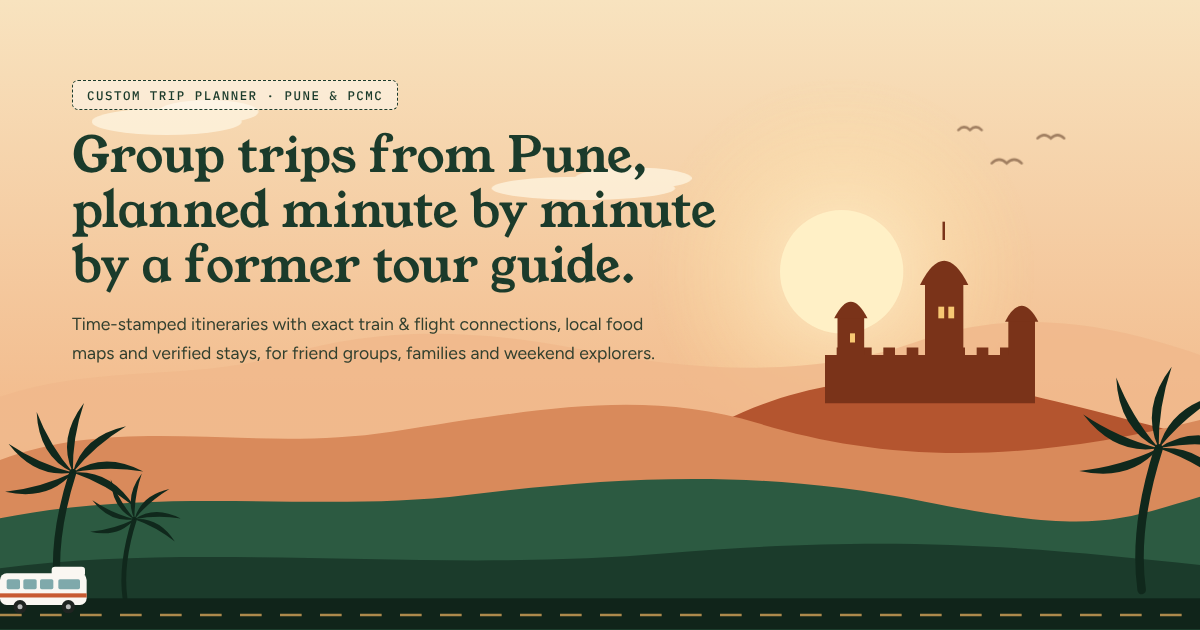
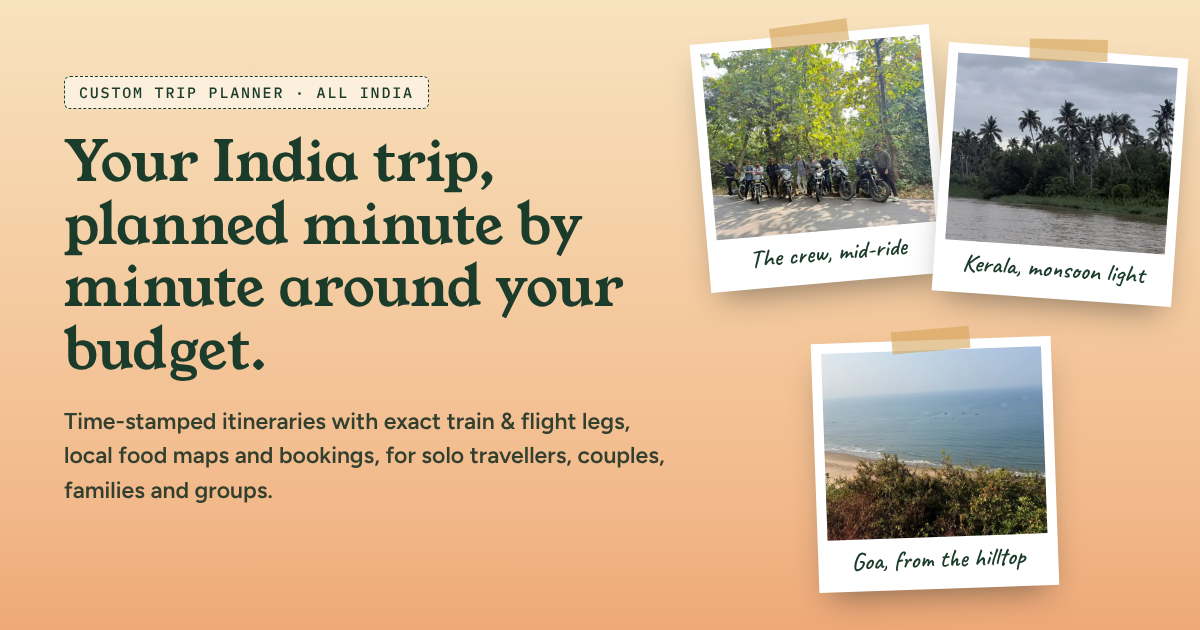
Finish pass: link-preview image regenerated (old one claimed 'former tour guide' and 'verified stays'), remove 'rough estimate' and 'weekend batches' wording
Claude-Session: https://claude.ai/code/session_01EqhCV4XYafM6KkVYf71ccm

diff --git a/travel-site/tools/og.html b/travel-site/tools/og.html
@@ -1,0 +1,22 @@
+<!doctype html><meta charset="utf-8"><title>og</title>
+<style>
+@font-face{font-family:'Young Serif';src:url(../fonts/young-serif-latin.woff2) format('woff2')}
+@font-face{font-family:'Figtree';font-weight:600;src:url(../fonts/figtree-latin.woff2) format('woff2')}
+@font-face{font-family:'Caveat';font-weight:600;src:url(../fonts/caveat-latin.woff2) format('woff2')}
+@font-face{font-family:'IBM Plex Mono';font-weight:500;src:url(../fonts/ibm-plex-mono-latin.woff2) format('woff2')}
+*{box-sizing:border-box;margin:0}
+body{width:1200px;height:630px;overflow:hidden;position:relative;background:linear-gradient(#F8E3BF,#F2B98A 80%,#EFA877);font-family:'Figtree',sans-serif;color:#1B3B2B}
+.t{position:absolute;left:64px;top:76px;width:620px}
+.s{display:inline-block;font:500 15px 'IBM Plex Mono',monospace;letter-spacing:.12em;text-transform:uppercase;border:1.5px dashed #1B3B2B;padding:6px 14px;border-radius:6px;background:rgba(255,252,246,.6)}
+h1{font:400 56px/1.12 'Young Serif',Georgia,serif;margin:22px 0 22px}
+p{font-size:23px;line-height:1.5;color:#33402f}
+.f{position:absolute;margin:0;background:#fff;padding:10px 10px 14px;box-shadow:0 16px 32px -12px rgba(31,36,33,.5);width:240px}
+.f img{display:block;width:100%;aspect-ratio:1/.85;object-fit:cover}
+.f figcaption{font:600 25px 'Caveat',cursive;text-align:center;margin-top:6px}
+.f::before{content:"";position:absolute;top:-11px;left:50%;width:78px;height:22px;margin-left:-39px;background:rgba(212,163,89,.6);transform:rotate(-3deg)}
+.a{left:700px;top:34px;transform:rotate(-5deg)}.b{left:940px;top:50px;transform:rotate(4deg)}.c{left:815px;top:340px;transform:rotate(-2deg)}
+</style>
+<div class="t"><span class="s">Custom trip planner · All India</span><h1>Your India trip, planned minute by minute around your budget.</h1><p>Time-stamped itineraries with exact train &amp; flight legs, local food maps and bookings, for solo travellers, couples, families and groups.</p></div>
+<figure class="f a"><img src="../img/trip-crew-560.webp" alt=""><figcaption>The crew, mid-ride</figcaption></figure>
+<figure class="f b"><img src="../img/trip-kerala-800.webp" alt=""><figcaption>Kerala, monsoon light</figcaption></figure>
+<figure class="f c"><img src="../img/trip-goa-800.webp" alt=""><figcaption>Goa, from the hilltop</figcaption></figure>

diff --git a/travel-site/tests/e2e.js b/travel-site/tests/e2e.js
@@ -255,7 +255,7 @@ const toPlanner = p => p.evaluate(() => document.querySelector('#planner').scrol
     assert(!fs.existsSync(path.join(root, 'fares.json')), 'the flight-fare data went with the prices');
     const home = fs.readFileSync(path.join(root, 'index.html'), 'utf8');
     assert(!/<h1[^>]*>[^<]*Pune|Pune &amp; PCMC|<title>[^<]*Pune|group trip planner in Pune/i.test(home) && /<h1[^>]*>[^<]*India/.test(home) && /solo travellers, couples, families/i.test(home), 'home page positioning is India-wide for every kind of traveller, not Pune-only or group-only');
-    assert(!/former tour guide|run them end to end|we have run group trips|started out as a|years running|holding the flag|vetted local|verified local|100% ground-tested|hidden agency markups|500\+|80K\+|trusted by|travellers planned for|signature routes, walked/i.test(home), 'no claim we cannot back up yet');
+    assert(!/former tour guide|run them end to end|we have run group trips|rough estimate|weekend batches|verified stays|started out as a|years running|holding the flag|vetted local|verified local|100% ground-tested|hidden agency markups|500\+|80K\+|trusted by|travellers planned for|signature routes, walked/i.test(home), 'no claim we cannot back up yet');
     assert.deepEqual([...home.matchAll(/class="linkbtn" data-bp="([\w-]+)"/g)].map(m => m[1]), ['rajasthan', 'kerala'], 'a blueprint is offered only where a real plan exists');
     assert.equal((home.match(/class="postmark"/g) || []).length, 2); assert.equal((home.match(/<b>Ground-tested<\/b>/g) || []).length, 2, 'only Rajasthan and Kerala are labelled ground-tested'); }
   // ---- legal pages: present, linked from every page, honest about what the code does ----

diff --git a/travel-site/index.html b/travel-site/index.html
@@ -644,9 +644,9 @@ dialog::backdrop{background:rgba(10,20,15,.68)}
     </div>
     <div class="tabs" role="tablist" aria-label="Filter trips">
       <button class="tab" role="tab" aria-selected="true" data-f="all">All Trips</button>
-      <button class="tab" role="tab" aria-selected="false" data-f="weekend">Weekend Batches (From Pune)</button>
-      <button class="tab" role="tab" aria-selected="false" data-f="multi">Multi-City Classics</button>
-      <button class="tab" role="tab" aria-selected="false" data-f="north">North India Packages</button>
+      <button class="tab" role="tab" aria-selected="false" data-f="weekend">Beach &amp; coast</button>
+      <button class="tab" role="tab" aria-selected="false" data-f="multi">Multi-city routes</button>
+      <button class="tab" role="tab" aria-selected="false" data-f="north">North India</button>
     </div>
     <div class="cards" id="trips" role="tabpanel">
       <article class="card reveal" data-id="rajasthan" data-cats="multi north">
@@ -800,7 +800,7 @@ dialog::backdrop{background:rgba(10,20,15,.68)}
   <div class="wrap">
     <span class="kicker">Custom trip planner</span>
     <h2 id="planner-h">Stop wasting 15 hours planning your trip.</h2>
-    <p class="lead">Tell us the trip. See a rough estimate instantly, get a free preview of your plan, and a firm quote within 24 hours.</p>
+    <p class="lead">Tell us the trip. For Rajasthan and Kerala you get a free Day 1 preview of your plan, and every plan comes with a firm written quote within 24 hours.</p>
     <div class="pl">
       <div>
         <form id="form" novalidate>

diff --git a/travel-site/tools/make_og.js b/travel-site/tools/make_og.js
@@ -1,0 +1,5 @@
+// Renders tools/og.html to og-image.png (1200x630, the link-preview image). Run: node tools/make_og.js
+const { chromium } = require('playwright'); const path = require('path'); const { pathToFileURL } = require('url');
+(async () => { const b = await chromium.launch(); const p = await b.newPage({ viewport: { width: 1200, height: 630 } });
+  await p.goto(pathToFileURL(path.join(__dirname, 'og.html')).href); await p.evaluate(() => document.fonts.ready); await p.waitForTimeout(300);
+  await p.screenshot({ path: path.join(__dirname, '..', 'og-image.png') }); await b.close(); console.log('wrote og-image.png'); })();

diff --git a/travel-site/LAUNCH.md b/travel-site/LAUNCH.md
@@ -19,6 +19,8 @@ WhatsApp order message. You take payment yourself (UPI or bank transfer to your 
 3. **Build and publish.** `npm run build`, then upload `dist/` to Cloudflare Pages (direct upload) or Netlify. Both read the generated `_headers`
    (security and cache headers) and `404.html`. The build refuses to finish if any placeholder is left, hides the Udyam badge if you have no number
    yet, and builds a strict Content-Security-Policy that only allows your own scripts.
+   The link-preview picture shown on WhatsApp and Instagram is `og-image.png`. It carries no brand name (the build cannot edit a picture), so it stays valid
+   for any brand. To change its words or photos, edit `tools/og.html` and run `node tools/make_og.js`.
 4. **Set up your channels.** A separate WhatsApp Business number with quick replies and an away message ("replies 7-9 pm"). Submit
    `https://your-domain/sitemap.xml` in Google Search Console. Create a Google Business Profile under your brand name.
 5. **Check what the site claims.** It says Rajasthan and Kerala plans come from real trips, that you quote around the customer's budget, and that
